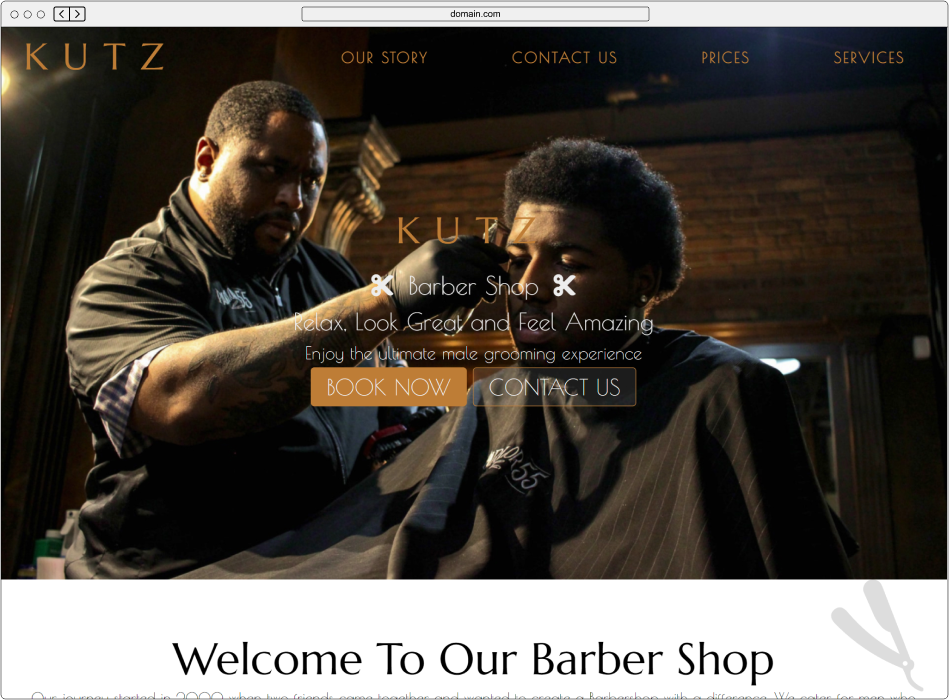
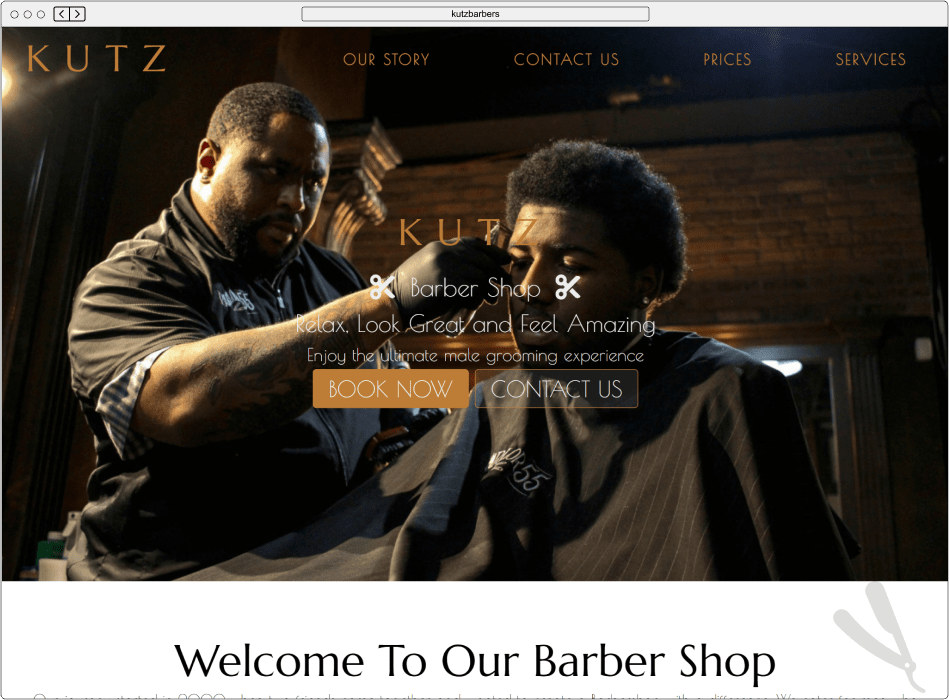
3

diff --git a/index.php b/index.php
@@ -27,7 +27,7 @@
                 <a class="herobtn" href="#" class="btn">Find Out More</a>
                 <p class="herotext" style="margin-top: 1rem;">We take away the headache of getting your business online. <br>Full services from design and development to hosting.</p>
             </div>
-            <figure class="hero-img"><img src="img/kutz-barbers.webp" alt="Kutz Barber Shop Website">
+            <figure class="hero-img"><img src="img/kutz-barbers.png" alt="Kutz Barber Shop Website">
                 <figcaption class="attr"><a href="https://www.parrotmedia.co.uk/kutz" target="_blank" rel="noreferrer">Kutz - Barber Shop</a></figcaption>
             </figure>
 
